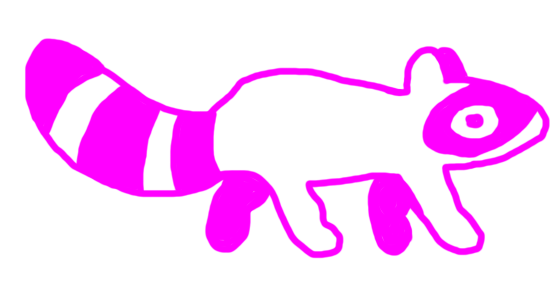
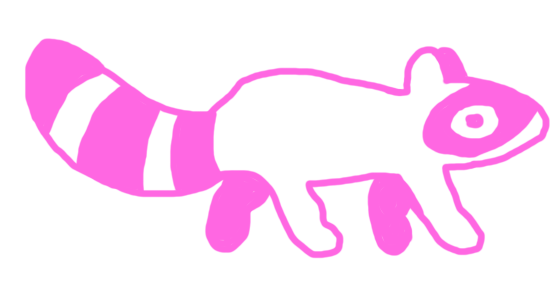
update colores + icono

Changed region(s): [[0.0309, 0.1139, 1.0, 0.9395]]

diff --git a/app/globals.css b/app/globals.css
@@ -21,17 +21,17 @@ body {
 }
 
 .gallery-scroll::-webkit-scrollbar-track {
-  background: #FF00FF;
-  border-left: 2px solid #0066FF;
+  background: #F867DE;
+  border-left: 2px solid #3376F8;
 }
 
 .gallery-scroll::-webkit-scrollbar-thumb {
   background: #0066FF;
-  border: 2px solid #FF00FF;
+  border: 2px solid #F867DE;
 }
 
 .gallery-scroll::-webkit-scrollbar-thumb:hover {
-  background: #0055DD;
+  background: #3376F8;
 }
 
 /* Merch scrollbar */
@@ -40,17 +40,17 @@ body {
 }
 
 .merch-scroll::-webkit-scrollbar-track {
-  background: #0066FF;
-  border-left: 2px solid #FF00FF;
+  background: #3376F8;
+  border-left: 2px solid #F867DE;
 }
 
 .merch-scroll::-webkit-scrollbar-thumb {
-  background: #FF00FF;
-  border: 2px solid #0066FF;
+  background: #F867DE;
+  border: 2px solid #3376F8;
 }
 
 .merch-scroll::-webkit-scrollbar-thumb:hover {
-  background: #FF00DD;
+  background: #F867DE;
 }
 
 @layer utilities {
@@ -82,6 +82,24 @@ body {
 }
 
 ::selection {
-  background: #FF00FF;
+  background: #F867DE;
   color: #262525;
 } 
+
+.bg-brutal-pink {
+  background: #F867DE;
+}
+
+.text-brutal-pink {
+  color: #F867DE;
+}
+
+.text-brutal-blue {
+  color: #3376F8;
+}
+
+.bg-brutal-blue {
+  background: #3376F8;
+}
+
+

diff --git a/app/layout.tsx b/app/layout.tsx
@@ -17,6 +17,11 @@ const archivoBlack = Archivo_Black({
 export const metadata: Metadata = {
   title: "KINSS X DEICA",
   description: "Página oficial de kinss x deica",
+  icons: {
+    icon: "/mapacheazul.png",
+    shortcut: "/mapacheazul.png",
+    apple: "/mapacheazul.png",
+  },
 };
 
 export default function RootLayout({
